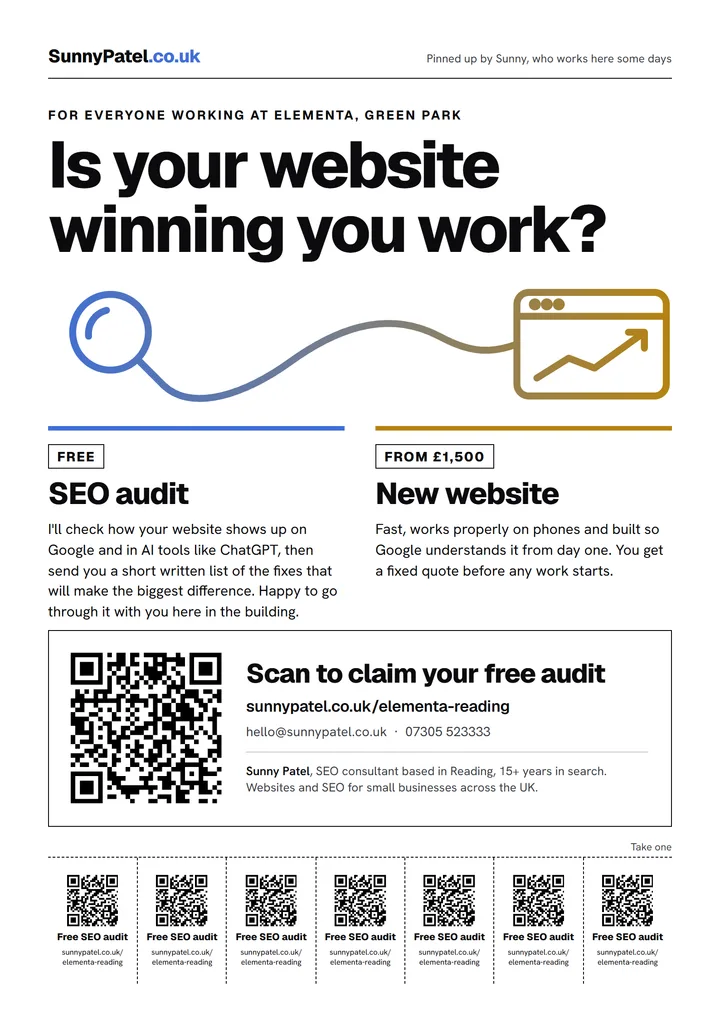
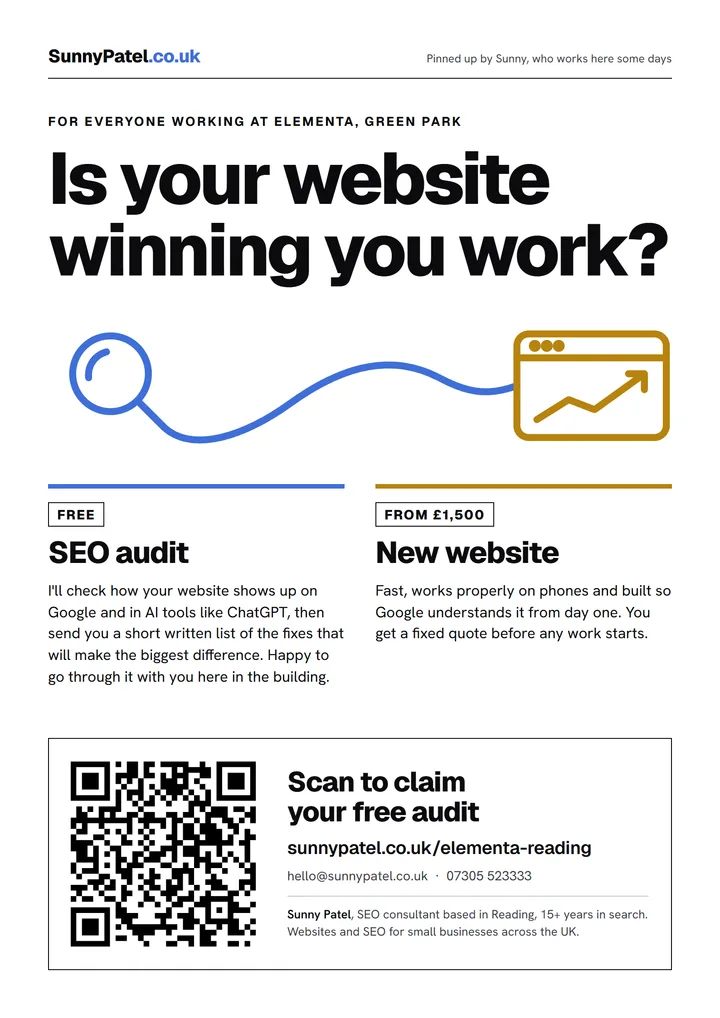
Elementa flyer v2: drop tear-off tabs, separate blue and gold line art
Claude-Session: https://claude.ai/code/session_01UGi4YyvYTkrMcGqx6SBRTm

Changed region(s): [[0.0611, 0.0914, 0.9472, 0.9745]]

diff --git a/src/app/elementa-reading/page.tsx b/src/app/elementa-reading/page.tsx
@@ -179,14 +179,6 @@ export default function ElementaReadingPage() {
         </section>
       </div>
 
-      <div aria-hidden="true" className="mx-auto max-w-6xl px-6">
-        <div className="flex items-center gap-3 text-xs text-muted-foreground">
-          <span className="h-px flex-1 border-t border-dashed border-muted-foreground/40" />
-          <span>Take one</span>
-          <span className="h-px flex-1 border-t border-dashed border-muted-foreground/40" />
-        </div>
-      </div>
-
       <ServiceInlineForm
         id="claim"
         ctaTitle="Claim your free SEO audit"
